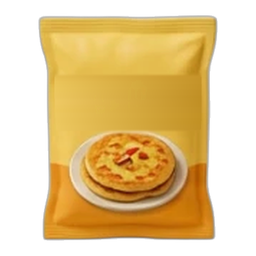
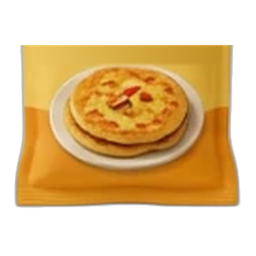
부침가루 그림: 빈 윗부분을 잘라 전 그림 쪽만 크게
Claude-Session: https://claude.ai/code/session_01MYGhb6R2QXY6quyyhQiczg

diff --git a/public/sw.js b/public/sw.js
@@ -3,7 +3,7 @@
 // - 그림·스크립트 등: 저장해 둔 것 먼저 (빌드 파일 이름이 바뀌므로 오래된 것이 남지 않음)
 // - /api/ (AI 연결 서버)는 저장하지 않는다
 
-const CACHE = 'fridge-planner-v11'; // 2026-11-10: 부침가루·실온 간편식 그림 글씨 지움 (같은 파일 이름이라 예전 그림이 남지 않게)
+const CACHE = 'fridge-planner-v12'; // 2026-11-10: 부침가루 그림을 그림 쪽만 크게 (같은 파일 이름이라 예전 그림이 남지 않게)
 
 self.addEventListener('install', () => self.skipWaiting());
 self.addEventListener('activate', (e) => {
